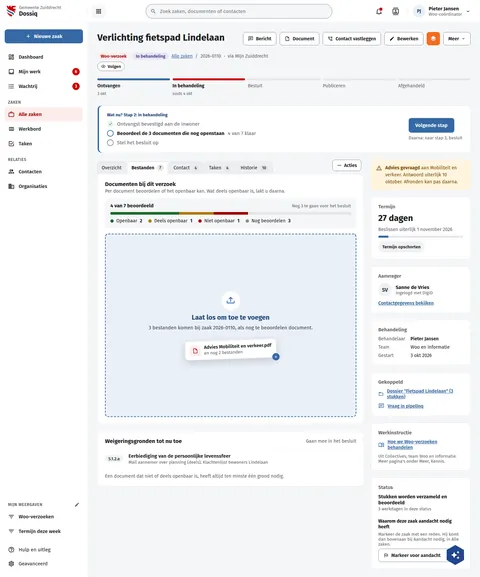
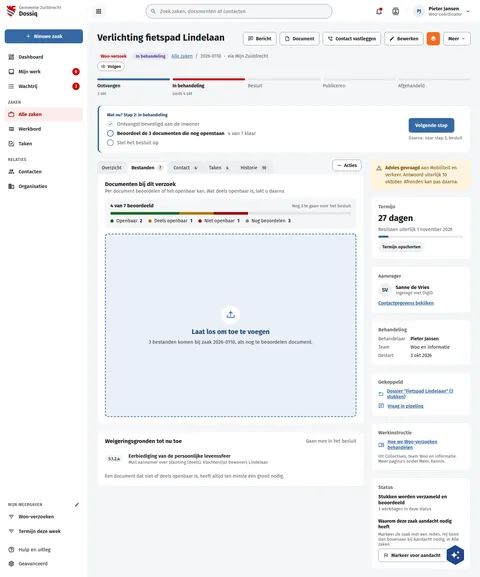
fix(screens): DqZaakDocumentenSlepen draws no drag image (#551)
The tilted card under the pointer ('Advies Mobiliteit en verkeer.pdf, en
nog 2 bestanden') is the operating system's drag image, which no page
draws or can be measured against. The drop panel the case page shows stays.

Assisted-by: ClaudeCode:claude-opus-5-5

Changed region(s): [[0.3125, 0.4991, 0.6562, 0.6239]]

diff --git a/preview/screens/boards/DqZaakDocumentenSlepen.html b/preview/screens/boards/DqZaakDocumentenSlepen.html
@@ -252,7 +252,6 @@ a{color:var(--sc-primary, #3669a5)}a:hover{color:var(--sc-primary-deep, #234a78)
                   <span style="width: 56px; height: 56px; border-radius: 28px; background: #ffffff; color: var(--sc-primary, #3669a5); display: flex; align-items: center; justify-content: center"><svg width="28" height="28" viewbox="0 0 24 24" fill="currentColor" aria-hidden="true"><path d="M2 12H4V17H20V12H22V17C22 18.11 21.11 19 20 19H4C2.9 19 2 18.11 2 17V12M12 2L6.46 7.46L7.88 8.88L11 5.75V15H13V5.75L16.13 8.88L17.55 7.45L12 2Z"></path></svg></span>
                   <strong style="font-size: 20px; font-weight: 700; color: var(--sc-primary-deep, #234a78)">Laat los om toe te voegen</strong>
                   <span style="font-size: 15px; color: var(--sc-work-text, #3d4047)">3 bestanden komen bij zaak 2026-0110, als nog te beoordelen document.</span>
-                  <span style="position: relative; margin-top: 18px; display: inline-flex; align-items: center; gap: 10px; padding: 10px 14px; border-radius: 8px; background: #ffffff; border: 1px solid var(--sc-work-line, #e4e6ea); box-shadow: 0 8px 24px rgba(27,28,29,0.18); transform: rotate(-2deg); font-size: 14px; color: var(--sc-work-ink, #1b1c1d)"><span style="width: 32px; height: 32px; border-radius: 6px; background: #fcedec; color: var(--sc-accent-deep, #a30000); display: flex; align-items: center; justify-content: center"><svg width="18" height="18" viewbox="0 0 24 24" fill="currentColor" aria-hidden="true"><path d="M14,2L20,8V20A2,2 0 0,1 18,22H6A2,2 0 0,1 4,20V4A2,2 0 0,1 6,2H14M18,20V9H13V4H6V20H18Z"></path></svg></span><span style="display: flex; flex-direction: column; align-items: flex-start; line-height: 1.3"><strong style="font-weight: 600">Advies Mobiliteit en verkeer.pdf</strong><span style="font-size: 13px; color: var(--sc-work-muted, #5e6168)">en nog 2 bestanden</span></span><span style="position: absolute; right: -10px; bottom: -10px; width: 22px; height: 22px; border-radius: 11px; background: var(--sc-primary, #3669a5); color: #ffffff; display: flex; align-items: center; justify-content: center"><svg width="14" height="14" viewbox="0 0 24 24" fill="currentColor" aria-hidden="true"><path d="M19,13H13V19H11V13H5V11H11V5H13V11H19V13Z"></path></svg></span></span>
                 </div>
               <div style="display: flex; flex-wrap: wrap; justify-content: space-between; gap: 8px">
                 <button type="button" aria-haspopup="menu" style="display: flex; align-items: center; gap: 8px; height: 40px; padding: 0 14px; border: 1px solid var(--sc-work-field, #828a95); border-radius: 8px; background: #ffffff; font: 600 14px var(--sc-font, 'Fira Sans'), sans-serif; color: var(--sc-work-ink, #1b1c1d)"><svg width="16" height="16" viewbox="0 0 24 24" fill="currentColor" aria-hidden="true"><path d="M16,12A2,2 0 0,1 18,10A2,2 0 0,1 20,12A2,2 0 0,1 18,14A2,2 0 0,1 16,12M10,12A2,2 0 0,1 12,10A2,2 0 0,1 14,12A2,2 0 0,1 12,14A2,2 0 0,1 10,12M4,12A2,2 0 0,1 6,10A2,2 0 0,1 8,12A2,2 0 0,1 6,14A2,2 0 0,1 4,12Z"></path></svg>Kolommen</button>

diff --git a/screens-src/zuiddrecht/DqZaakDocumentenSlepen.dc.html b/screens-src/zuiddrecht/DqZaakDocumentenSlepen.dc.html
@@ -96,7 +96,6 @@ a{color:#3669a5}a:hover{color:#234a78}
                   <span style="width: 56px; height: 56px; border-radius: 28px; background: #ffffff; color: #3669a5; display: flex; align-items: center; justify-content: center"><svg width="28" height="28" viewBox="0 0 24 24" fill="currentColor" aria-hidden="true"><path d="M2 12H4V17H20V12H22V17C22 18.11 21.11 19 20 19H4C2.9 19 2 18.11 2 17V12M12 2L6.46 7.46L7.88 8.88L11 5.75V15H13V5.75L16.13 8.88L17.55 7.45L12 2Z"></path></svg></span>
                   <strong style="font-size: 20px; font-weight: 700; color: #234a78">Laat los om toe te voegen</strong>
                   <span style="font-size: 15px; color: #3d4047">3 bestanden komen bij zaak 2026-0110, als nog te beoordelen document.</span>
-                  <span style="position: relative; margin-top: 18px; display: inline-flex; align-items: center; gap: 10px; padding: 10px 14px; border-radius: 8px; background: #ffffff; border: 1px solid #e4e6ea; box-shadow: 0 8px 24px rgba(27,28,29,0.18); transform: rotate(-2deg); font-size: 14px; color: #1b1c1d"><span style="width: 32px; height: 32px; border-radius: 6px; background: #fcedec; color: #a30000; display: flex; align-items: center; justify-content: center"><svg width="18" height="18" viewBox="0 0 24 24" fill="currentColor" aria-hidden="true"><path d="M14,2L20,8V20A2,2 0 0,1 18,22H6A2,2 0 0,1 4,20V4A2,2 0 0,1 6,2H14M18,20V9H13V4H6V20H18Z"></path></svg></span><span style="display: flex; flex-direction: column; align-items: flex-start; line-height: 1.3"><strong style="font-weight: 600">Advies Mobiliteit en verkeer.pdf</strong><span style="font-size: 13px; color: #5e6168">en nog 2 bestanden</span></span><span style="position: absolute; right: -10px; bottom: -10px; width: 22px; height: 22px; border-radius: 11px; background: #3669a5; color: #ffffff; display: flex; align-items: center; justify-content: center"><svg width="14" height="14" viewBox="0 0 24 24" fill="currentColor" aria-hidden="true"><path d="M19,13H13V19H11V13H5V11H11V5H13V11H19V13Z"></path></svg></span></span>
                 </div>
               <div style="display: flex; flex-wrap: wrap; justify-content: space-between; gap: 8px">
                 <button type="button" aria-haspopup="menu" style="display: flex; align-items: center; gap: 8px; height: 40px; padding: 0 14px; border: 1px solid #828a95; border-radius: 8px; background: #ffffff; font: 600 14px 'Fira Sans', sans-serif; color: #1b1c1d"><svg width="16" height="16" viewBox="0 0 24 24" fill="currentColor" aria-hidden="true"><path d="M16,12A2,2 0 0,1 18,10A2,2 0 0,1 20,12A2,2 0 0,1 18,14A2,2 0 0,1 16,12M10,12A2,2 0 0,1 12,10A2,2 0 0,1 14,12A2,2 0 0,1 12,14A2,2 0 0,1 10,12M4,12A2,2 0 0,1 6,10A2,2 0 0,1 8,12A2,2 0 0,1 6,14A2,2 0 0,1 4,12Z"></path></svg>Kolommen</button>
